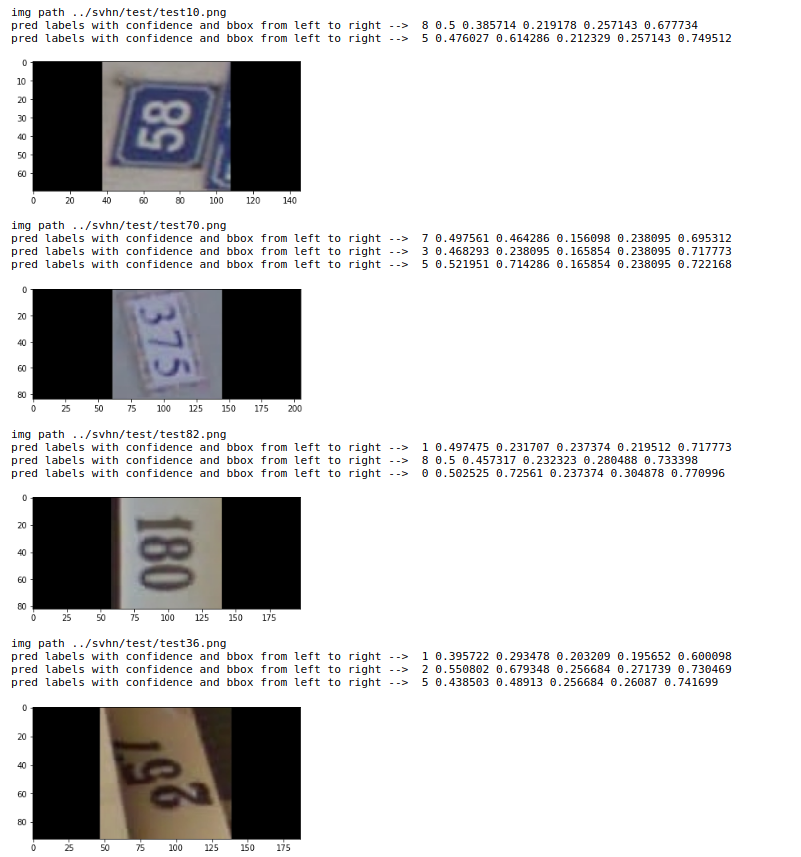
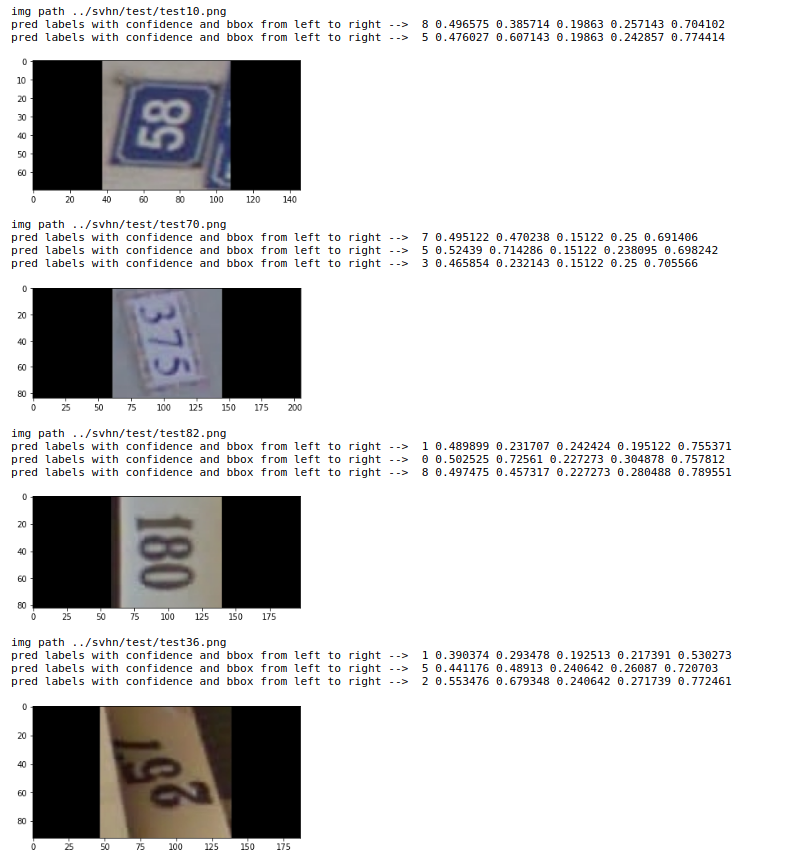
adding submission files

diff --git a/sample_outputs/final_submission.md b/sample_outputs/final_submission.md
@@ -1,0 +1,46 @@
+# Problem Statement
+
+Objective: Create a solution to read house numbers in the 100 images attached (testsvhn.zip) using deep learning/ machine learning. You can use the full SVHN dataset (http://ufldl.stanford.edu/housenumbers/) for training purposes. You can use the machine learning framework of your choice. You don't have to train models for very long - a high or low accuracy will not determine our review of your solution. You can use any existing open source implementation as well, and don't have to implement your solution from scratch, if it helps. You can also use pre-trained models as a starting point for your training, if you wish.     
+
+Please Add below Listed Execution files to be included in the test Project.
+   "Please have a few more examples such as **test82.png, test36.png, test70.png, test10.png** for us to get a sense of his hands-on experience. If there's a new project zip he can submit taking this into consideration, would be good to get a sense of the ideas and thought process
+
+# Approaches with implementation details 
+
+**Please go through this repo for details of implementation**
+
+https://github.com/trinanjan12/svhn_digit_recognizer
+
+3 different approaches that I have tried to solve the problem are listed below
+
+1. Object Detection using Yolov5
+2. Object Detection using Detectron 2
+3. Multilabel Classification  
+
+## My Final Submission is Yolov5 output
+### I am attaching outputs from Yolov5 and Detectron2
+
+## 1. Object Detection using YOLOV5
+
+### Output of the test dataset provided
+**The first value after --> is the class predicted**
+![Output](./yolo_testdata.png)
+
+### Output of the test dataset of SVHN
+#### Good Output
+![Good Output](./yolo_svhn_good_1.png)
+![Good Output](./yolo_svhn_good_2.png)
+#### Bad Output
+![Bad Output](./yolo_svhn_bad_1.png)
+![Bad Output](./yolo_svhn_bad_2.png)
+
+## 2.Object Detection using Detectron2
+
+#### Output of the test dataset provided
+![Output](./detectron2_test.png)
+
+### Output of the test dataset of SVHN
+#### Good Output
+![Good Output](./detectron2_good.png)
+#### Bad Output
+![Bad Output](./detectron2_bad.png)
